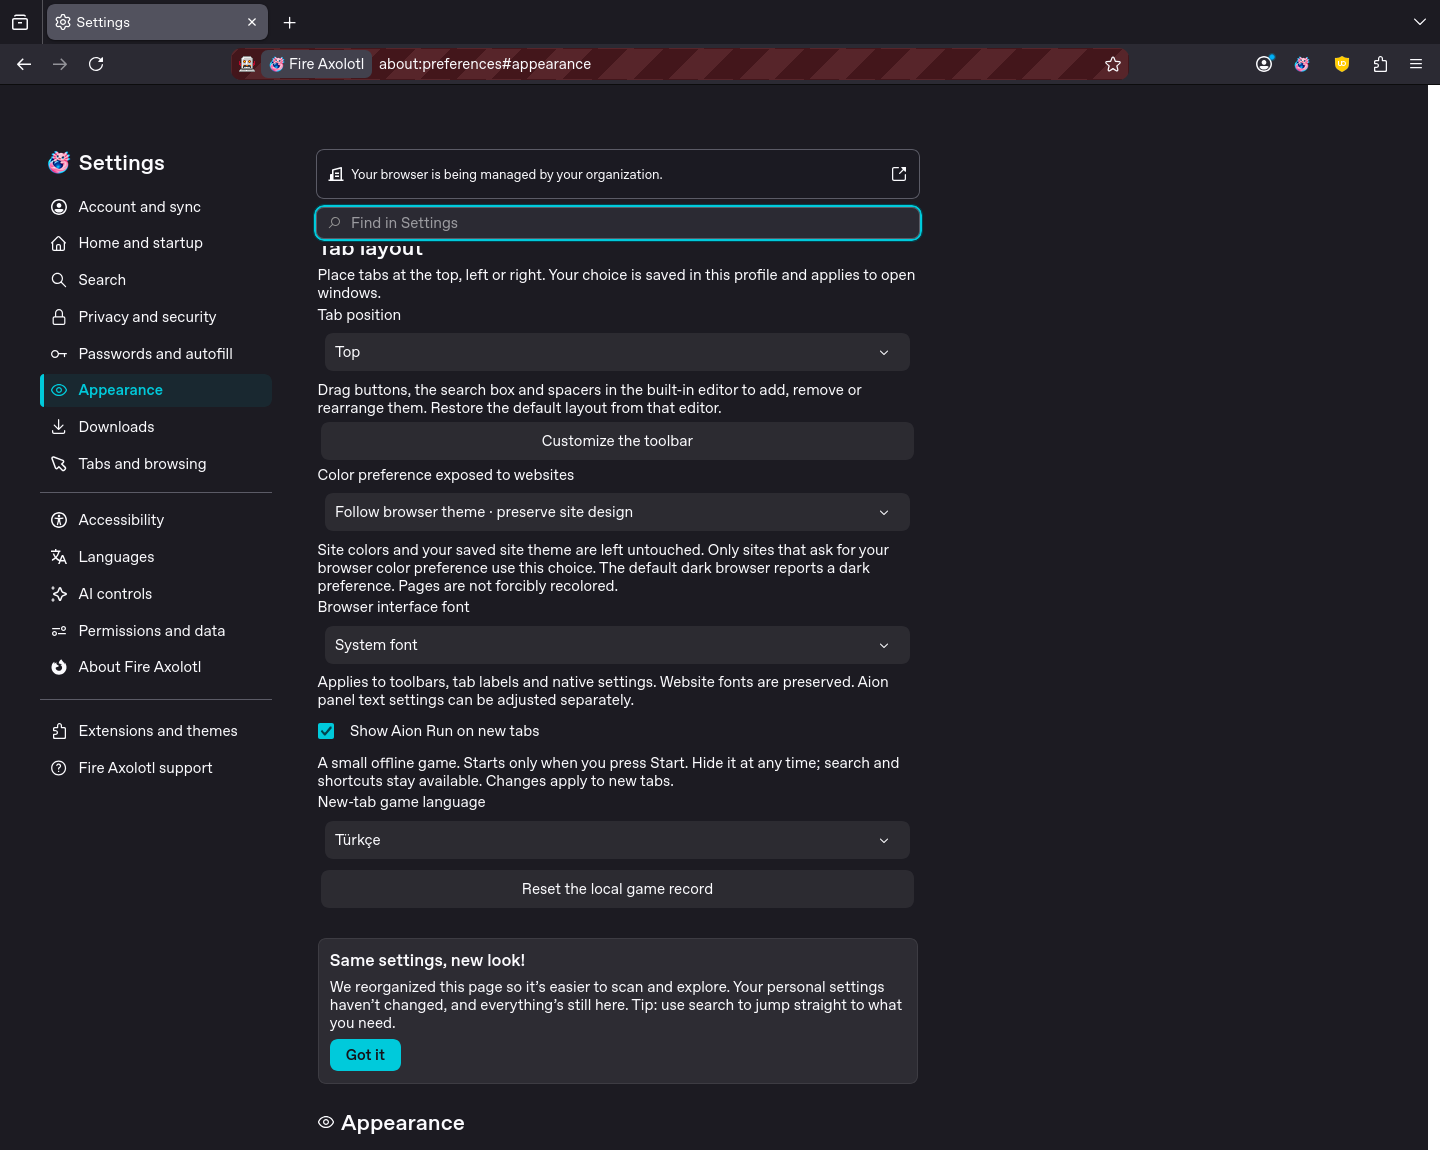
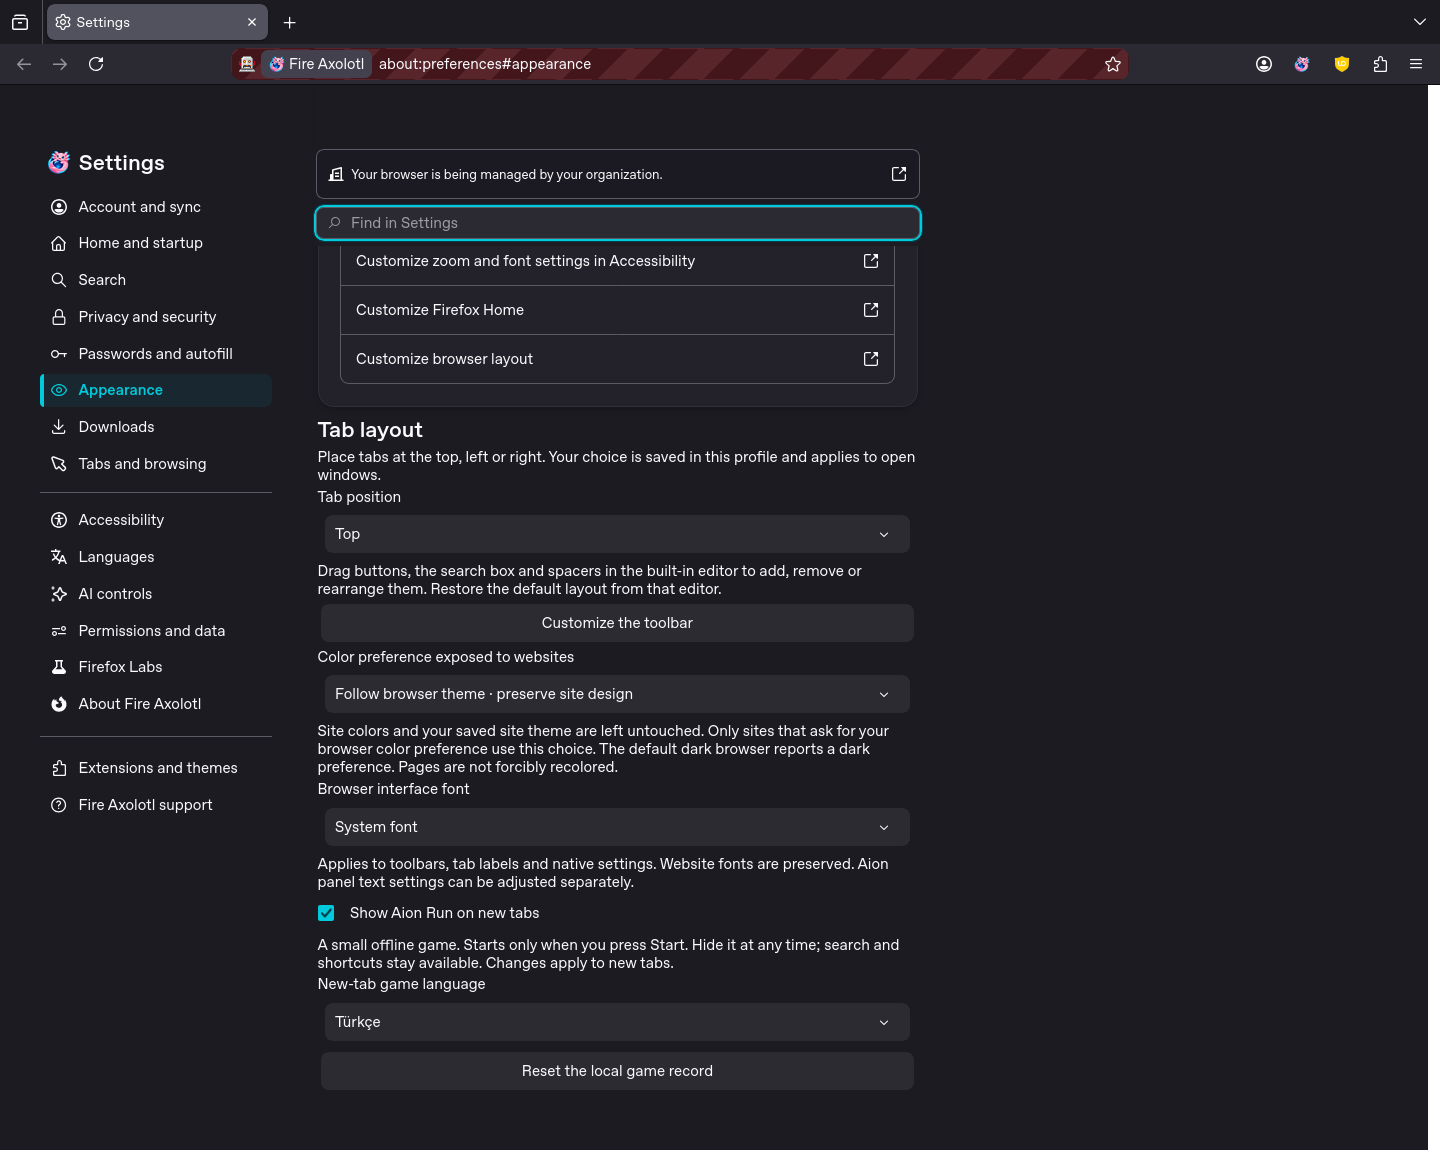
Place Aion controls after the native Appearance pane
Select Lit panes by their JS property and preserve normal settings navigation. Keep repeated Space input inside the running game. Eleven native controls and eleven game scenarios passed, including a genuine obstacle clear and trusted repeated-key input without page scrolling.

diff --git a/browser/native/aion-layout.js b/browser/native/aion-layout.js
@@ -12,7 +12,7 @@
     // Keep the native pane heading and controls before our additional group.
     // The preferences search/category machinery manages the group's visibility.
     function placeGroup() {
-      const pane = document.querySelector(`setting-pane[name="${category}"]`);
+      const pane = Array.from(document.querySelectorAll('setting-pane')).find(element => element.name === category);
       if (pane && pane.nextElementSibling !== group) pane.after(group);
     }
     placeGroup();

diff --git a/tests/native_runner.py b/tests/native_runner.py
@@ -7,6 +7,7 @@ import time
 
 from selenium import webdriver
 from selenium.webdriver.common.by import By
+from selenium.webdriver.common.action_chains import ActionChains
 from selenium.webdriver.common.keys import Keys
 from selenium.webdriver.firefox.options import Options
 from selenium.webdriver.firefox.service import Service
@@ -71,10 +72,19 @@ try:
     assert canvas.get_attribute('data-state') == 'ready'
     record('Space in the address bar stays ordinary text and does not start the game')
 
+    driver.set_window_size(1440, 800)
     play.click()
     wait.until(lambda _: canvas.get_attribute('data-state') == 'running')
     canvas.send_keys(Keys.SPACE)
     wait.until(lambda _: canvas.get_attribute('data-airborne') == 'true')
+    driver.execute_script('window.aionTestKeys=[];arguments[0].addEventListener("keydown",event=>window.aionTestKeys.push(event));', canvas)
+    scroll = driver.execute_script('return {y:scrollY,maximum:document.scrollingElement.scrollHeight-innerHeight};')
+    assert scroll['maximum'] > scroll['y'] + 50
+    ActionChains(driver).key_down(Keys.SPACE).key_down(Keys.SPACE).key_up(Keys.SPACE).perform()
+    repeats = driver.execute_script('return window.aionTestKeys.filter(event=>event.repeat).map(event=>event.isTrusted);')
+    assert repeats and all(repeats), repeats
+    time.sleep(0.2)
+    assert driver.execute_script('return scrollY') == scroll['y']
     screenshot('newtab-jump.png')
     canvas.send_keys(Keys.ESCAPE)
     wait.until(lambda _: canvas.get_attribute('data-state') == 'paused')
@@ -82,6 +92,7 @@ try:
     time.sleep(0.2)
     assert canvas.get_attribute('data-score') == frozen
     record('Explicit Start, actual Space jump, Esc pause and paused score behave correctly')
+    driver.set_window_size(1440, 1050)
 
     play.click()
     original = driver.current_window_handle

diff --git a/tests/native_smoke.py b/tests/native_smoke.py
@@ -91,6 +91,8 @@ try:
     record('Compiled built-in sidebar opens and all four packaged character atlases decode')
     driver.get('about:preferences#' + ('appearance' if redesigned else 'general'))
     wait.until(lambda d: d.find_element(By.ID, 'aionLayoutGroup').is_displayed())
+    if redesigned:
+        assert driver.execute_script('const pane=Array.from(document.querySelectorAll("setting-pane")).find(element=>element.name==="paneAppearance");return pane?.nextElementSibling===document.getElementById("aionLayoutGroup");')
     for side in ['left', 'right', 'top']:
         choose_option(driver, 'aion-tab-position', side)
         driver.set_context('chrome')

diff --git a/FORGE.md b/FORGE.md
@@ -1,5 +1,6 @@
 # Aion yeni sekme oyunu / Aion new-tab game
 
+- Görünüm yerleşimi: Lit `setting-pane.name` özelliği HTML niteliğine yansıtılmadığından eski `[name=...]` seçicisi paneli bulamıyordu. JS özelliğiyle seçilir; özel grup artık native Görünüm panelinden sonra yerleşir. Gerçek forkta sıralama ve 11 native smoke geçti; installed smoke bu sıralamayı da denetler. Sekme/font/gizlilik işlevleri korunur. Boşluk basılı tutulurken tekrarlanan olaylar da sayfayı kaydırmaz.
 - Güncel native kaynak `7bbc53a6a388476ecd9c3e4a795f75bf834a2196`; [Windows çalıştırması 42729988254](https://github.com/kaansavukduran/fire-axolotl/actions/runs/42729988254) kısa kök ve cache ile başlatıldı. Yayın JSON ve üç artifact indirme pini bu run’a eşlendi. Bu kayıt sırasında derleme sürüyor; Windows Setup henüz yok. Önceki 5d/427099 derlemesi başarısız tarihsel kayıttır.
 
 - Son gözden geçirmede gerçek bir klavye zıplamasıyla engel aşıldı ve kazanılan rekor yeni sekmede korundu. Arama kutusu kapalıyken oyun görünür; kullanıcının tamamen boş yeni sekme seçimi korunur. `native_runner.py` artık 11 senaryoyu geçti; kurulu Windows yayın kapısı da 11 ister. Son yerel birim toplamı 22 Node + 16 Python; önceki 11 native smoke + 4 restart da oyun katmanıyla geçti.
